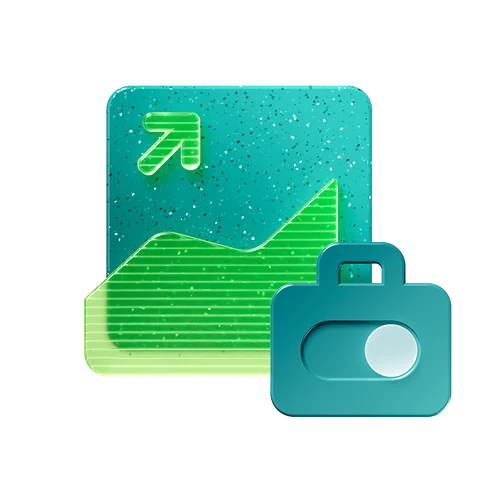
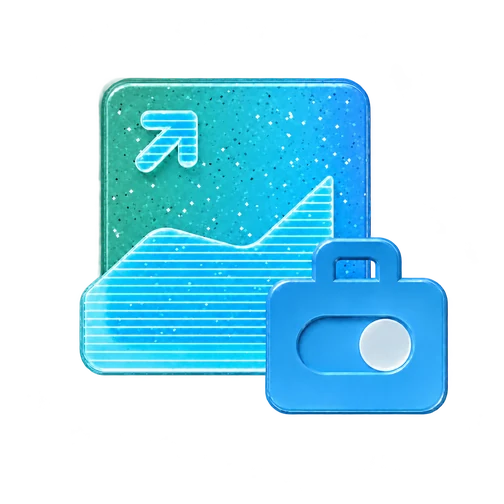
Лендинг: новые фоны, иконки услуг, таймлайн «5 шагов», светлый футер, фавикон
- фоны «Почему Индия», «5 шагов», «Четыре способа», «Не уверены…» заменены (размыты заранее)
- футер светлый, без рифлёного стекла, тёмный текст; шапка над ним не темнеет
- светлые карточки в палитре баннеров Работа.ру, у карточек отраслей разные пятна
- иконки услуг (градиент), метки версий от кэша браузера
- «5 шагов»: общий таймлайн по нижнему краю окна вместо полос во вкладках
- фавикон «р»

diff --git a/site-reg/index.html b/site-reg/index.html
@@ -6,14 +6,17 @@
     <meta name="theme-color" content="#191b1e">
     <meta name="robots" content="noindex,nofollow">
     <meta name="description" content="Специалисты из Индии для предприятий под ключ. Опишите задачу и узнайте, как может быть организован подбор, релокация и легализация.">
-    <link rel="icon" href="favicon.svg">
+    <link rel="icon" href="favicon.ico?v=2" sizes="any">
+    <link rel="icon" type="image/png" sizes="32x32" href="favicon-32.png?v=2">
+    <link rel="icon" type="image/png" sizes="192x192" href="favicon-192.png?v=2">
+    <link rel="apple-touch-icon" href="apple-touch-icon.png?v=2">
     <title>Специалисты из Индии для бизнеса — Работа.ру</title>
     <link rel="stylesheet" href="styles.css">
-    <link rel="stylesheet" href="theme-reg.css">
+    <link rel="stylesheet" href="theme-reg.css?v=20261112f">
     <script src="script.js" defer></script>
-    <script src="flow-demo.js" defer></script>
+    <script src="flow-demo.js?v=20261112b" defer></script>
     <script src="hero-video.js" defer></script>
-    <script src="header.js" defer></script>
+    <script src="header.js?v=20261112" defer></script>
     <script src="reveal.js" defer></script>
     <script src="https://cdn.jsdelivr.net/npm/d3-array@3.2.4/dist/d3-array.min.js" defer></script>
     <script src="https://cdn.jsdelivr.net/npm/d3-geo@3.1.1/dist/d3-geo.min.js" defer></script>
@@ -81,7 +84,7 @@
         </section>
         </div>
         <section class="why-section" id="why">
-          <div class="fluted-glass" aria-hidden="true" data-fluted-src="features/why-bg-rings.webp" data-fluted-fit="cover"></div>
+          <div class="fluted-glass" aria-hidden="true" data-fluted-src="features/why-bg-wave-blur36.webp" data-fluted-fit="cover"></div>
           <div class="container why-grid">
             <div>
               <p class="eyebrow">Почему Индия
@@ -181,9 +184,10 @@
             </p>
           </div>
           <div class="flow-demo" data-flow>
-            <div class="fluted-glass" aria-hidden="true" data-fluted-src="flow-bg.webp" data-fluted-fit="cover"></div>
+            <div class="fluted-glass" aria-hidden="true" data-fluted-src="features/flow-bg-grid-blur36-mirror.webp" data-fluted-fit="cover"></div>
             <div class="flow-tabs" role="tablist" aria-label="Шаги процесса" aria-orientation="vertical"><button role="tab" id="flow-tab-0" aria-selected="true" aria-controls="flow-chat" tabindex="0" data-flow-tab="0"><span class="flow-tab-num">01</span><span class="flow-tab-text"><b>Описываете задачу</b><span>Профессия, количество, регион и срок. Можно продиктовать или загрузить файл — нейросеть заполнит поля за вас.</span></span><span class="flow-tab-bar" aria-hidden="true"></span></button><button role="tab" id="flow-tab-1" aria-selected="false" aria-controls="flow-chat" tabindex="-1" data-flow-tab="1"><span class="flow-tab-num">02</span><span class="flow-tab-text"><b>Подбираем кандидатов</b><span>Определяем способ привлечения, подбираем специалистов, проверяем опыт и документы.</span></span><span class="flow-tab-bar" aria-hidden="true"></span></button><button role="tab" id="flow-tab-2" aria-selected="false" aria-controls="flow-chat" tabindex="-1" data-flow-tab="2"><span class="flow-tab-num">03</span><span class="flow-tab-text"><b>Утверждаем кандидатов</b><span>Передаём анкеты и доступные материалы, по запросу организуем проверку навыков. Решение — за вами.</span></span><span class="flow-tab-bar" aria-hidden="true"></span></button><button role="tab" id="flow-tab-3" aria-selected="false" aria-controls="flow-chat" tabindex="-1" data-flow-tab="3"><span class="flow-tab-num">04</span><span class="flow-tab-text"><b>Помогаем с оформлением</b><span>Организуем переезд, легализацию и адаптацию в рамках согласованного проекта.</span></span><span class="flow-tab-bar" aria-hidden="true"></span></button><button role="tab" id="flow-tab-4" aria-selected="false" aria-controls="flow-chat" tabindex="-1" data-flow-tab="4"><span class="flow-tab-num">05</span><span class="flow-tab-text"><b>Выход на работу</b><span>Сотрудники приступают к работе, вы встречаете команду. Сопровождение — по условиям договора.</span></span><span class="flow-tab-bar" aria-hidden="true"></span></button>
             </div>
+            <div class="flow-timeline" data-flow-timeline aria-hidden="true"><span></span></div>
             <div class="flow-window" id="flow-chat" role="tabpanel" aria-labelledby="flow-tab-0">
               <div class="flow-app" data-flow-app hidden>
                 <div class="fa-scroll">
@@ -346,29 +350,29 @@
             <div class="feat-grid">
               <div class="feat-col">
               <article class="feat-card is-small">
-                <div class="feat-top"><h3>Подбор и скрининг</h3><div class="feat-tile is-sm is-art"><img class="art-icon" src="features/svc-screening.webp" width="280" height="280" alt="" loading="lazy"></div></div>
+                <div class="feat-top"><h3>Подбор и скрининг</h3><div class="feat-tile is-sm is-art"><img class="art-icon" src="features/svc-screening.webp?v=grad2" width="280" height="280" alt="" loading="lazy"></div></div>
                 <div class="feat-bottom"><p>Поиск через партнёрскую сеть кадровых агентств, проверка квалификации, тестирование навыков, верификация документов и бэкграунда по согласованным требованиям. Для заказчика — доступные материалы для оценки кандидатов до их согласования.</p></div>
               </article>
               <article class="feat-card is-small">
-                <div class="feat-top"><h3>Адаптация и сопровождение</h3><div class="feat-tile is-sm is-art"><img class="art-icon" src="features/svc-adaptation.webp" width="280" height="280" alt="" loading="lazy"></div></div>
+                <div class="feat-top"><h3>Адаптация и сопровождение</h3><div class="feat-tile is-sm is-art"><img class="art-icon" src="features/svc-adaptation.webp?v=grad2" width="280" height="280" alt="" loading="lazy"></div></div>
                 <div class="feat-bottom"><p>Помощь сотрудникам с бытовыми и культурными вопросами, согласованный канал поддержки на протяжении контракта. Состав сопровождения определяется для проекта.</p></div>
               </article>
               <article class="feat-card is-small">
-                <div class="feat-top"><h3>Юридическое оформление</h3><div class="feat-tile is-sm is-art"><img class="art-icon" src="features/svc-legal.webp" width="280" height="280" alt="" loading="lazy"></div></div>
+                <div class="feat-top"><h3>Юридическое оформление</h3><div class="feat-tile is-sm is-art"><img class="art-icon" src="features/svc-legal.webp?v=grad2" width="280" height="280" alt="" loading="lazy"></div></div>
                 <div class="feat-bottom"><p>Согласованная помощь с рабочей визой, разрешением на работу и миграционным учётом по применимой схеме. Для заказчика — согласованный перечень документов.</p></div>
               </article>
               </div>
               <div class="feat-col">
               <article class="feat-card is-small">
-                <div class="feat-top"><h3>Обучение до приезда</h3><div class="feat-tile is-sm is-art"><img class="art-icon" src="features/svc-training.webp" width="280" height="280" alt="" loading="lazy"></div></div>
+                <div class="feat-top"><h3>Обучение до приезда</h3><div class="feat-tile is-sm is-art"><img class="art-icon" src="features/svc-training.webp?v=grad2" width="280" height="280" alt="" loading="lazy"></div></div>
                 <div class="feat-bottom"><p>Пока оформляются документы, подготовка кандидатов под требования работодателя, включая начальный уровень русского языка и специфику производства, если входит в согласованный состав работ.</p></div>
               </article>
               <article class="feat-card is-small">
-                <div class="feat-top"><h3>Отчётность<br>и соответствие нормам</h3><div class="feat-tile is-sm is-art"><img class="art-icon" src="features/svc-reporting.webp" width="280" height="280" alt="" loading="lazy"></div></div>
+                <div class="feat-top"><h3>Отчётность<br>и соответствие нормам</h3><div class="feat-tile is-sm is-art"><img class="art-icon" src="features/svc-reporting.webp?v=grad2" width="280" height="280" alt="" loading="lazy"></div></div>
                 <div class="feat-bottom"><p>Согласованный пакет документов для бухгалтерии, кадрового учёта и проверок; сопровождение в согласованных договором границах.</p></div>
               </article>
               <article class="feat-card is-small">
-                <div class="feat-top"><h3>Логистика и трансфер</h3><div class="feat-tile is-sm is-art"><img class="art-icon" src="features/svc-logistics.webp" width="280" height="280" alt="" loading="lazy"></div></div>
+                <div class="feat-top"><h3>Логистика и трансфер</h3><div class="feat-tile is-sm is-art"><img class="art-icon" src="features/svc-logistics.webp?v=grad2" width="280" height="280" alt="" loading="lazy"></div></div>
                 <div class="feat-bottom"><p>Согласованная помощь с перелётом, встречей, размещением и сопровождением до выхода на объект.</p></div>
               </article>
               </div>
@@ -389,7 +393,7 @@
           </div>
         </section>
         <section class="methods-section" id="methods">
-          <div class="fluted-glass" aria-hidden="true" data-fluted-src="flow-bg.webp" data-fluted-fit="cover"></div>
+          <div class="fluted-glass" aria-hidden="true" data-fluted-src="features/methods-bg-deep-blur36.webp" data-fluted-fit="cover"></div>
           <div class="container">
             <div class="section-heading">
             <p class="eyebrow">Способы привлечения</p>
@@ -427,7 +431,7 @@
         </section>
         <div class="container methods-cta-wrap">
           <div class="contact-section methods-cta" id="uncertainty">
-            <div class="fluted-glass" aria-hidden="true" data-fluted-src="features/cta-bg-rings-blur36.webp" data-fluted-fit="cover"></div>
+            <div class="fluted-glass" aria-hidden="true" data-fluted-src="features/cta-bg-wave-wide-blur36.webp" data-fluted-fit="cover"></div>
             <img class="methods-cta-art" src="features/cta-laptop.webp" width="718" height="423" alt="" loading="lazy">
             <div class="contact-inner">
               <div>
@@ -543,7 +547,6 @@
         </section>
       </main>
       <footer id="footer">
-        <div class="fluted-glass" aria-hidden="true" data-fluted-src="features/footer-bg-blur.webp" data-fluted-fit="cover"></div>
         <div class="container">
           <div class="footer-top"><a class="brand brand-duo" href="#top" aria-label="Работа.ру × Сбер"><svg class="wordmark brand-logo brand-sber" viewBox="28 22 742 201" aria-hidden="true" focusable="false"><path d="M615.85 82.55L643.26 62.35H551.53V183.68H643.26V163.47H577.71V132.41H633.62V112.21H577.71V82.55H615.85Z" fill="currentColor"></path><path d="M482.29 109.64H450.43V82.55H501.28L528.69 62.35H424.25V183.68H478.91C509.57 183.68 527.15 169.78 527.15 145.56C527.15 122.4 511.22 109.64 482.29 109.64ZM477.73 163.47H450.43V129.84H477.73C494.34 129.84 502.08 135.47 502.08 146.66C502.08 158.09 493.89 163.47 477.73 163.47Z" fill="currentColor"></path><path d="M717.58 62.35H667.64V183.67H693.81V149.31H717.58C749.45 149.31 769.25 132.55 769.25 105.77C769.25 78.99 749.45 62.35 717.58 62.35ZM717 129.11H693.81V82.55H717C733.78 82.55 743 90.82 743 105.83C743 120.84 733.77 129.11 717 129.11Z" fill="currentColor"></path><path d="M379.31 157.41C372.373 161.168 364.6 163.115 356.71 163.07C333.11 163.07 315.98 146.22 315.98 123.01C315.98 99.8 333.11 83 356.71 83C365.24 82.8759 373.586 85.4906 380.52 90.46L399.3 76.62L398.06 75.53C387.06 65.9 372.45 60.81 355.7 60.81C337.53 60.81 321.04 66.93 309.27 78.06C297.5 89.19 290.91 104.99 290.91 122.39C290.91 139.79 297.41 155.85 309.21 167.39C321.01 178.93 337.49 185.33 355.53 185.33C374.4 185.33 390.88 178.75 402.06 166.78L385.11 154.29L379.31 157.41Z" fill="currentColor"></path><path d="M228.63 122.42C228.632 116.414 228.096 110.42 227.03 104.51L205.5 120.37C205.5 121.05 205.5 121.74 205.5 122.37C205.524 139.578 199.782 156.298 189.193 169.861C178.603 183.425 163.775 193.05 147.075 197.201C130.375 201.353 112.766 199.79 97.0585 192.764C81.3505 185.737 68.4489 173.651 60.4126 158.435C52.3764 143.219 49.6686 125.75 52.7215 108.815C55.7745 91.8797 64.4121 76.4554 77.2559 65.0034C90.0997 53.5514 106.41 46.7317 123.582 45.6327C140.755 44.5336 157.801 49.2187 172 58.94L191.45 44.6C173.801 30.3575 151.835 22.5373 129.156 22.4226C106.477 22.3079 84.4327 29.9055 66.6404 43.9687C48.848 58.032 36.3645 77.7254 31.2381 99.8176C26.1118 121.91 28.6472 145.088 38.4283 165.55C48.2094 186.011 64.6552 202.54 85.0671 212.424C105.479 222.309 128.644 224.961 150.762 219.946C172.88 214.931 192.636 202.547 206.789 184.826C220.942 167.105 228.65 145.099 228.65 122.42H228.63Z" fill="currentColor"></path><path d="M207.76 61.28C212.514 67.4211 216.541 74.0923 219.76 81.16L128.63 148.32L90.5601 124.45V95.74L128.63 119.6L207.76 61.28Z" fill="currentColor"></path></svg><span class="brand-x" aria-hidden="true">×</span><svg class="wordmark brand-logo" viewBox="0 0 1162 216" aria-hidden="true" focusable="false"><path d="M364.061 144.931C355.821 145.961 347.49 143.949 340.589 139.26C334.9 135.392 330.465 129.9 327.844 123.474C324.668 115.68 324.353 106.984 326.958 98.9734C329.563 90.9634 334.914 84.1709 342.036 79.8343C349.158 75.4978 357.576 73.9066 365.755 75.3502C373.935 76.793 381.332 81.1757 386.598 87.6982C391.864 94.2206 394.648 102.449 394.442 110.883C394.237 119.317 391.055 127.395 385.479 133.645C379.902 139.895 372.301 143.901 364.061 144.931ZM408.835 0.0398666V28.5718V28.5803C405.957 28.5803 402.995 28.5452 399.969 28.5093C398.528 28.4921 397.072 28.4748 395.604 28.4612L395.21 28.4545C381.102 28.2179 366.362 27.9707 354.665 30.164C341.41 32.6673 327.651 42.6888 322.767 56.1331C334.691 47.6737 349.073 43.5424 363.592 44.4056C378.111 45.2686 391.919 51.0759 402.792 60.8905C413.666 70.7053 420.968 83.9556 423.523 98.5039C426.079 113.053 423.737 128.052 416.877 141.083C410.016 154.114 399.036 164.417 385.708 170.33C372.38 176.244 357.48 177.423 343.411 173.678C329.343 169.933 316.926 161.482 308.162 149.687C299.398 137.893 294.8 123.443 295.108 108.667V108.625C295.183 91.2636 297.538 54.2685 300.764 43.123C307.107 21.641 327.61 5.83821 348.783 1.90454C359.558 -0.121906 373.383 -0.0623069 393.853 0.0398666H408.835ZM928.75 165.686C939.342 172.498 951.657 176.034 964.191 175.869C976.725 175.703 988.94 171.841 999.355 164.753C1009.77 157.664 1017.93 147.654 1022.86 135.939C1027.78 124.224 1029.25 111.308 1027.08 98.7617C1024.92 86.2142 1019.22 74.5769 1010.66 65.262C1002.11 55.9475 991.087 49.3572 978.914 46.292C966.749 43.2269 953.967 43.8189 942.127 47.9961C930.28 52.1734 919.893 59.756 912.205 69.8224C903.405 81.3506 898.637 94.2588 898.637 119.624V212.61H928.75V165.686ZM928.75 110.112C928.743 118.858 931.938 127.292 937.713 133.775C943.494 140.257 951.437 144.325 959.996 145.187C968.562 146.047 977.136 143.64 984.051 138.434C990.966 133.227 995.728 125.592 997.407 117.016C999.086 108.439 997.57 99.5335 993.149 92.0318C988.727 84.5294 981.713 78.9674 973.48 76.4273C965.247 73.8871 956.376 74.551 948.596 78.2892C940.816 82.0267 934.68 88.5722 931.385 96.6514C929.65 100.919 928.75 105.493 928.75 110.112ZM505.629 175.895C489.563 175.9 474.069 169.833 462.161 158.872C450.254 147.912 442.784 132.844 441.204 116.597C439.624 100.349 444.047 84.0866 453.614 70.97C463.18 57.8537 477.205 48.822 492.961 45.6317C508.718 42.4414 525.079 45.3205 538.862 53.709C552.645 62.0975 562.865 75.3955 567.534 91.0174C572.203 106.638 570.987 123.466 564.123 138.227C557.259 152.988 545.237 164.627 530.396 170.88C522.544 174.187 514.128 175.89 505.629 175.895ZM505.629 145.302C497.036 145.277 488.76 142.006 482.41 136.123C476.059 130.241 472.089 122.169 471.272 113.477C470.454 104.785 472.848 96.0948 477.985 89.0964C483.123 82.098 490.64 77.292 499.072 75.613C507.504 73.9339 516.25 75.5021 523.607 80.0122C530.965 84.5222 536.408 91.6517 538.879 100.014C541.35 108.377 540.672 117.375 536.976 125.258C533.281 133.14 526.832 139.344 518.884 142.663C514.679 144.42 510.175 145.316 505.629 145.302ZM690.433 79.0106V48.4692H577.654V79.0531H616.69V169.596H649.226V79.0106H690.433ZM1073.07 48.087H1036.21L1080.5 156.254L1054.39 212.689H1086.92L1162 48.0955H1129.46L1098.47 116.586L1073.07 48.087ZM878.734 155.038C878.734 151.769 877.785 148.573 875.999 145.854C874.214 143.135 871.677 141.016 868.701 139.764C865.733 138.511 862.459 138.183 859.306 138.82C856.146 139.456 853.248 141.03 850.974 143.34C848.699 145.652 847.148 148.596 846.524 151.803C845.893 155.008 846.212 158.332 847.445 161.352C848.678 164.372 850.761 166.954 853.439 168.77C856.111 170.587 859.256 171.557 862.473 171.557C864.606 171.557 866.724 171.131 868.694 170.302C870.671 169.471 872.464 168.255 873.973 166.721C875.482 165.187 876.679 163.366 877.494 161.361C878.316 159.357 878.734 157.208 878.734 155.038ZM68.5683 175.863C56.0364 176.03 43.7263 172.495 33.134 165.687V212.61H3.02026V119.624C3.02026 94.2588 7.79623 81.3514 16.5941 69.8226C24.2755 59.7592 34.6678 52.1794 46.5083 48.0043C58.3488 43.8291 71.1278 43.2384 83.292 46.3038C95.4569 49.3692 106.484 55.9588 115.032 65.272C123.582 74.5848 129.285 86.2207 131.449 98.7653C133.613 111.31 132.146 124.223 127.225 135.936C122.303 147.649 114.14 157.658 103.728 164.745C93.315 171.833 81.1005 175.695 68.5683 175.863ZM42.1003 133.769C36.3255 127.288 33.1295 118.856 33.134 110.113C33.1364 105.494 34.0332 100.92 35.7734 96.6514C39.0667 88.5744 45.1989 82.031 52.9771 78.2942C60.7553 74.5574 69.6233 73.8943 77.8561 76.4345C86.0886 78.9739 93.0974 84.5345 97.5187 92.0347C101.94 99.535 103.458 108.438 101.776 117.013C100.095 125.587 95.335 133.219 88.4225 138.425C81.5107 143.631 72.9396 146.037 64.3778 145.176C55.8159 144.316 47.8752 140.25 42.1003 133.769ZM211.702 175.863C224.235 176.03 236.544 172.495 247.137 165.687V174.372H277.25V119.624C277.25 94.2588 272.475 81.3514 263.677 69.8226C255.995 59.7592 245.603 52.1794 233.762 48.0043C221.922 43.8291 209.143 43.2384 196.979 46.3038C184.814 49.3692 173.787 55.9588 165.239 65.272C156.689 74.5848 150.986 86.2207 148.822 98.7653C146.658 111.31 148.125 124.223 153.046 135.936C157.968 147.649 166.131 157.658 176.543 164.745C186.956 171.833 199.17 175.695 211.702 175.863ZM238.169 133.775C243.946 127.292 247.142 118.858 247.137 110.113C247.135 105.494 246.238 100.92 244.498 96.6514C241.204 88.5722 235.07 82.0274 227.29 78.2892C219.51 74.551 210.639 73.8878 202.405 76.428C194.17 78.9674 187.159 84.5302 182.737 92.0318C178.315 99.5342 176.796 108.44 178.478 117.016C180.16 125.592 184.921 133.227 191.835 138.434C198.749 143.641 207.322 146.048 215.886 145.187C224.45 144.325 232.393 140.258 238.169 133.775ZM799.477 165.687C788.885 172.495 776.577 176.03 764.043 175.863C751.509 175.695 739.294 171.833 728.886 164.745C718.47 157.658 710.308 147.649 705.387 135.936C700.466 124.223 698.998 111.31 701.163 98.7653C703.327 86.2207 709.033 74.5848 717.578 65.272C726.13 55.9588 737.154 49.3692 749.32 46.3038C761.485 43.2384 774.26 43.8291 786.1 48.0043C797.947 52.1794 808.334 59.7592 816.014 69.8226C824.815 81.3514 829.59 94.2588 829.59 119.624V174.372H799.477V165.687ZM799.477 110.113C799.484 118.856 796.289 127.288 790.514 133.769C784.74 140.25 776.797 144.316 768.231 145.176C759.672 146.037 751.098 143.631 744.19 138.425C737.275 133.219 732.513 125.587 730.834 117.013C729.155 108.438 730.671 99.535 735.093 92.0347C739.514 84.5352 746.521 78.9739 754.754 76.4345C762.988 73.8943 771.858 74.5574 779.631 78.2942C787.411 82.031 793.547 88.5744 796.841 96.6514C798.577 100.92 799.477 105.494 799.477 110.113Z" fill-rule="evenodd" clip-rule="evenodd" fill="currentColor"></path></svg></a>
             <p>Привлечение специалистов из Индии для российских предприятий: подбор, проверка квалификации, оформление, логистика и адаптация.

diff --git a/site-reg/flow-demo.js b/site-reg/flow-demo.js
@@ -28,6 +28,7 @@
 
   const tabs = [...root.querySelectorAll('[data-flow-tab]')];
   const stage = root.querySelector('.flow-window');
+  const timeline = root.querySelector('[data-flow-timeline]');   // общий таймлайн 5 этапов под окном (десктоп)
   const slidesBox = root.querySelector('[data-flow-slides]');
   const prevBtn = root.querySelector('[data-flow-prev]');
   const nextBtn = root.querySelector('[data-flow-next]');
@@ -525,6 +526,7 @@
     return { slide, demo: createDemo(win) };
   });
 
+  if (timeline) stage.append(timeline);   // таймлайн — внутрь окна, по его нижнему краю (после клонирования окна в слайдер)
   const main = createDemo(stage);
   let current = 0;      // активная вкладка (десктоп)
   let active = 0;       // активная карточка (слайдер)
@@ -541,6 +543,19 @@
       if (on && focus) tab.focus();
     });
     stage.setAttribute('aria-labelledby', tabs[index].id);
+    setTimeline(index, index + 1);
+  }
+
+  // Таймлайн: заливка от начала текущего этапа до его конца за время этапа (transition из JS); без времени — сразу до конца этапа
+  function setTimeline(from, to, ms = 0) {
+    const bar = timeline?.firstElementChild;
+    if (!bar) return;
+    bar.style.transition = 'none';
+    bar.style.transform = `scaleX(${(ms ? from : to) / tabs.length})`;
+    if (!ms || reduceMotion) { bar.style.transform = `scaleX(${to / tabs.length})`; return; }
+    void bar.offsetWidth;               // зафиксировать начало, чтобы transition пошёл от него
+    bar.style.transition = `transform ${ms}ms linear`;
+    bar.style.transform = `scaleX(${to / tabs.length})`;
   }
 
   function playTab(index, continued = false) {
@@ -551,7 +566,16 @@
     tab.style.setProperty('--flow-dur', `${ms}ms`);
     void tab.offsetWidth;               // перезапуск анимации полосы прогресса
     tab.classList.add('is-playing');
+
+    setTimeline(index, index + 1, ms);
   }
+
+  // Клик по таймлайну — переход к этапу под курсором
+  timeline?.addEventListener('click', event => {
+    const box = timeline.getBoundingClientRect();
+    const n = Math.min(tabs.length - 1, Math.max(0, Math.floor((event.clientX - box.left) / box.width * tabs.length)));
+    if (visible) playTab(n); else selectTab(n);
+  });
 
   tabs.forEach((tab, i) => tab.addEventListener('click', () => { if (visible) playTab(i); else selectTab(i); }));
   root.querySelector('.flow-tabs').addEventListener('keydown', event => {

diff --git a/site-reg/brief.html b/site-reg/brief.html
@@ -7,7 +7,10 @@
     <meta name="viewport" content="width=device-width, initial-scale=1.0">
     <meta name="theme-color" content="#f2f4f7">
     <meta name="robots" content="noindex,nofollow">
-    <link rel="icon" href="favicon.svg">
+    <link rel="icon" href="favicon.ico?v=2" sizes="any">
+    <link rel="icon" type="image/png" sizes="32x32" href="favicon-32.png?v=2">
+    <link rel="icon" type="image/png" sizes="192x192" href="favicon-192.png?v=2">
+    <link rel="apple-touch-icon" href="apple-touch-icon.png?v=2">
     <title>Новая заявка на привлечение сотрудников — Работа.ру</title>
     <link rel="stylesheet" href="styles.css">
     <link rel="stylesheet" href="theme-reg.css">

diff --git a/site-reg/header.js b/site-reg/header.js
@@ -8,7 +8,7 @@
 (() => {
   const header = document.querySelector('.site-header');
   if (!header) return;
-  const DARK = '.hero, .services-section, .contact-section, .flow-demo, .features-section, .methods-cta, .why-section, .methods-section, footer';
+  const DARK = '.hero, .services-section, .contact-section, .flow-demo, .features-section, .methods-cta, .why-section, .methods-section';   // футер светлый — шапка над ним обычная
   let queued = false;
 
   function update() {
